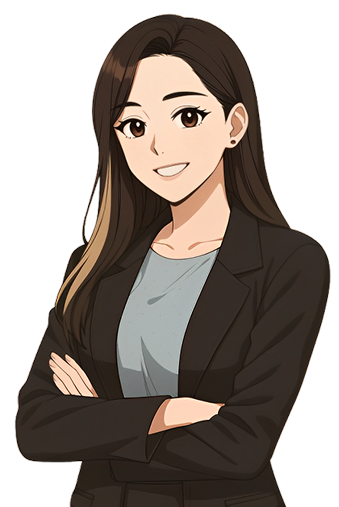
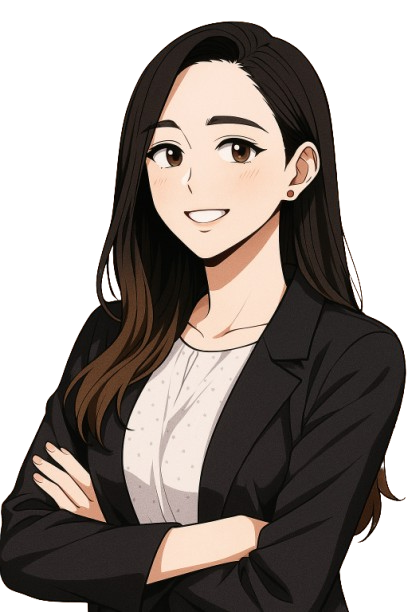
style: changed hero image and header padding

diff --git a/src/components/Header/index.jsx b/src/components/Header/index.jsx
@@ -1,4 +1,5 @@
 import logo from '@assets/logo.png';
+import { ScrollProgress } from '@components/Magic-UI/ScrollProgress';
 import { useState } from 'react';
 
 import { ContentLinks } from './ContentLinks';
@@ -16,7 +17,7 @@ export function Header() {
   };
 
   return (
-    <header className="fixed top-0 left-0 z-50 w-full flex justify-between py-4 2xl:py-8 items-center px-4 sm:px-8 md:px-12 lg:px-20 xl:px-56 bg-white dark:bg-[#272727] shadow-xs">
+    <header className="fixed top-0 left-0 z-50 w-full flex justify-between py-4 items-center px-7 sm:px-12 lg:px-24 2xl:px-96 bg-white dark:bg-[#272727]">
       <img
         src={logo}
         alt="Logo do portfólio"
@@ -36,6 +37,7 @@ export function Header() {
         isMenuOpen={isMenuOpen}
         open={() => setIsMenuOpen(!isMenuOpen)}
       />
+      <ScrollProgress className="top-14" />
 
       {isMenuOpen && (
         <nav
